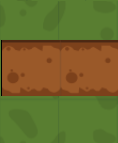
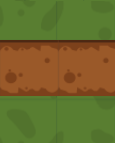
schakkelaar verplaatst
ik heb de schakkelaartjes hun juiste positie gegeven

Changed region(s): [[0.0, 0.2797, 0.0261, 0.6713], [0.0522, 0.5315, 0.0783, 0.5594]]

diff --git a/Workshops/stroom-geeft-energie/CSS/style.css b/Workshops/stroom-geeft-energie/CSS/style.css
@@ -23,6 +23,21 @@ body{
     max-height: 5vw;
     position: absolute;
 }
+
+#schakkelaar2 {
+    margin-left: 12.78vw;
+    margin-bottom: 6.4vw;
+    position: relative;
+    transform: rotate(90deg);
+
+
+}
+#schakkelaar {
+    margin-left: 39.75vw;
+    margin-top: 16.5vw;
+    position: relative;
+    transform: rotate(90deg);
+}
 #border-buiten-tekst2 {
     font-family: 'Raleway', sans-serif;
     margin-left: 34.4vw;

diff --git a/Workshops/stroom-geeft-energie/Stroom.php b/Workshops/stroom-geeft-energie/Stroom.php
@@ -62,7 +62,8 @@
         <img src="img/gloeilamp-uit.png"/>
         <img src="img/gloeilamp-aan.jpg" style="display:none;"/>
     </div>
-
+<img id="schakkelaar" src="img/schakkelaar.png"/>
+    <img id="schakkelaar2" src="img/schakkelaar.png"/>
 
 
 </div>
